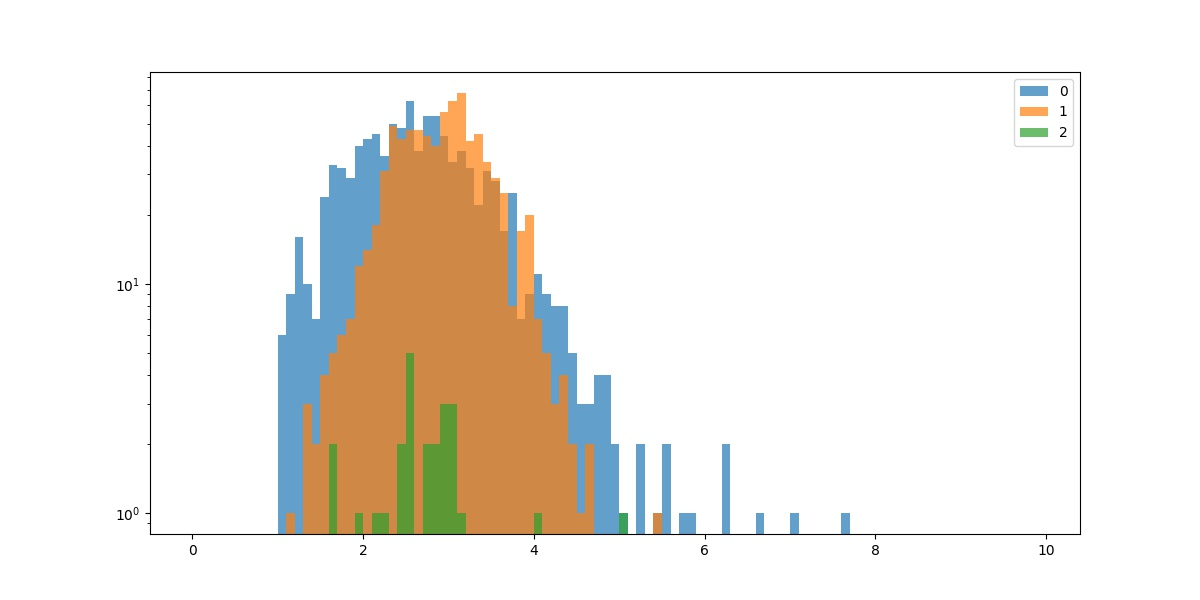
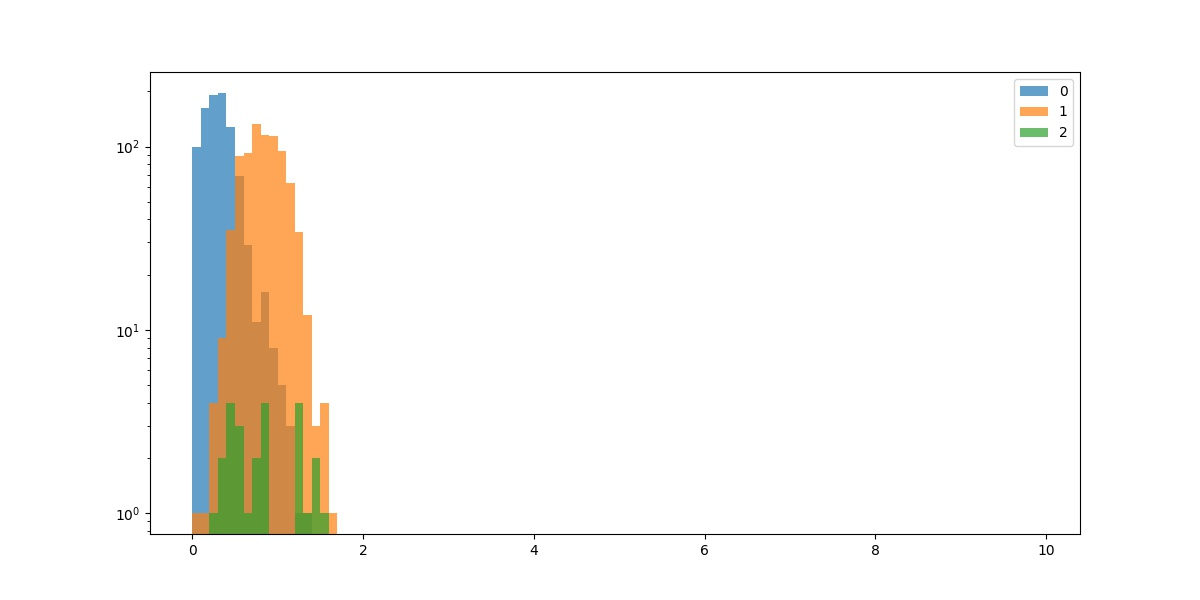
brightness augmentation

diff --git a/test_model.py b/test_model.py
@@ -24,7 +24,7 @@ from dataloader import BlurImageDataset
 #%%
 IMAGE_PARENT = 'blur_cam_test'
 IMAGE_W_LABEL_TXT = '../data_generator/class_id_to_files_70001_test.txt'
-MODEL_NAME = 'blur_reg_10_resnet18_1024_19'
+MODEL_NAME = 'blur_reg_resnet18_128_24'
 
 
 load_test_from_file = False
@@ -96,9 +96,9 @@ plt.savefig('error.jpg')
 plt.close()
 
 #%%
-accuracy = (len([x for x in result["0"] if x < 2]) +\
-	len([x for x in result["1"] if x >= 2 and x < 6]) +\
-	len([x for x in result["2"] if x >= 6])) /\
+accuracy = (len([x for x in result["0"] if x < 0.5]) +\
+	len([x for x in result["1"] if x >= 0.5 and x < 1.5]) +\
+	len([x for x in result["2"] if x >= 1.5])) /\
 	(len(result["0"]) + len(result["1"]) + len(result["2"]))
 
 print("accuracy: ", accuracy)
